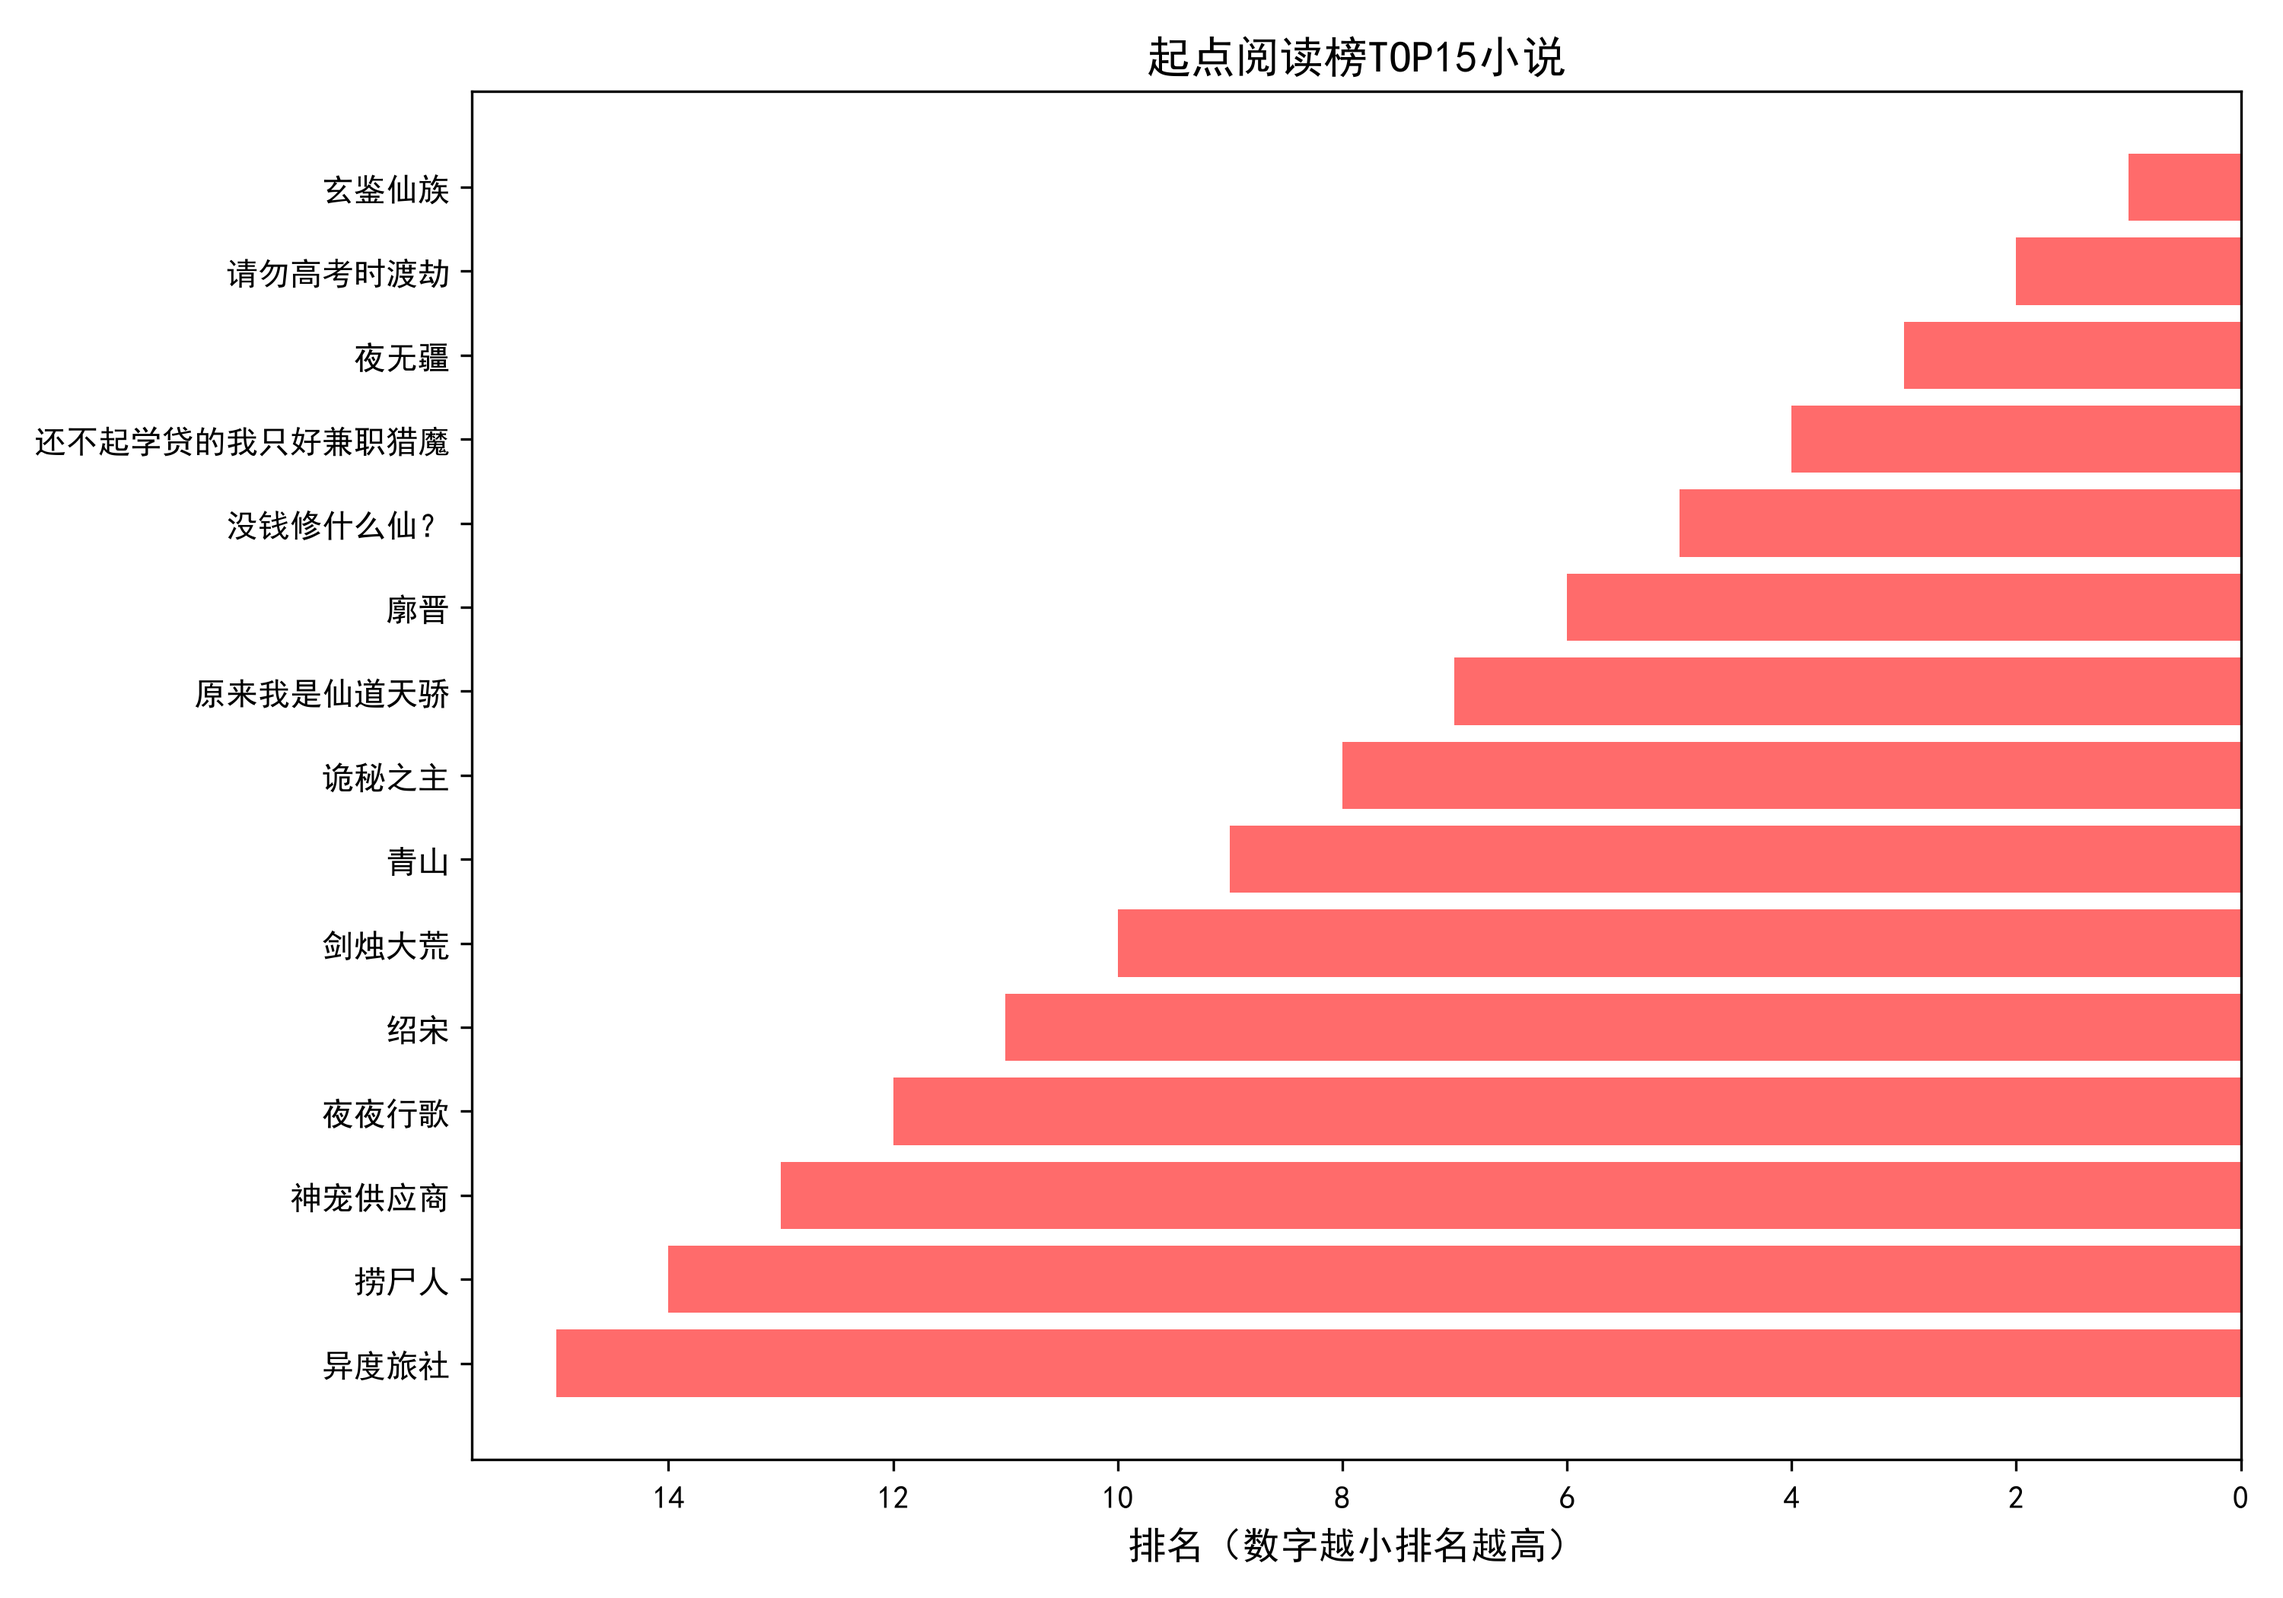
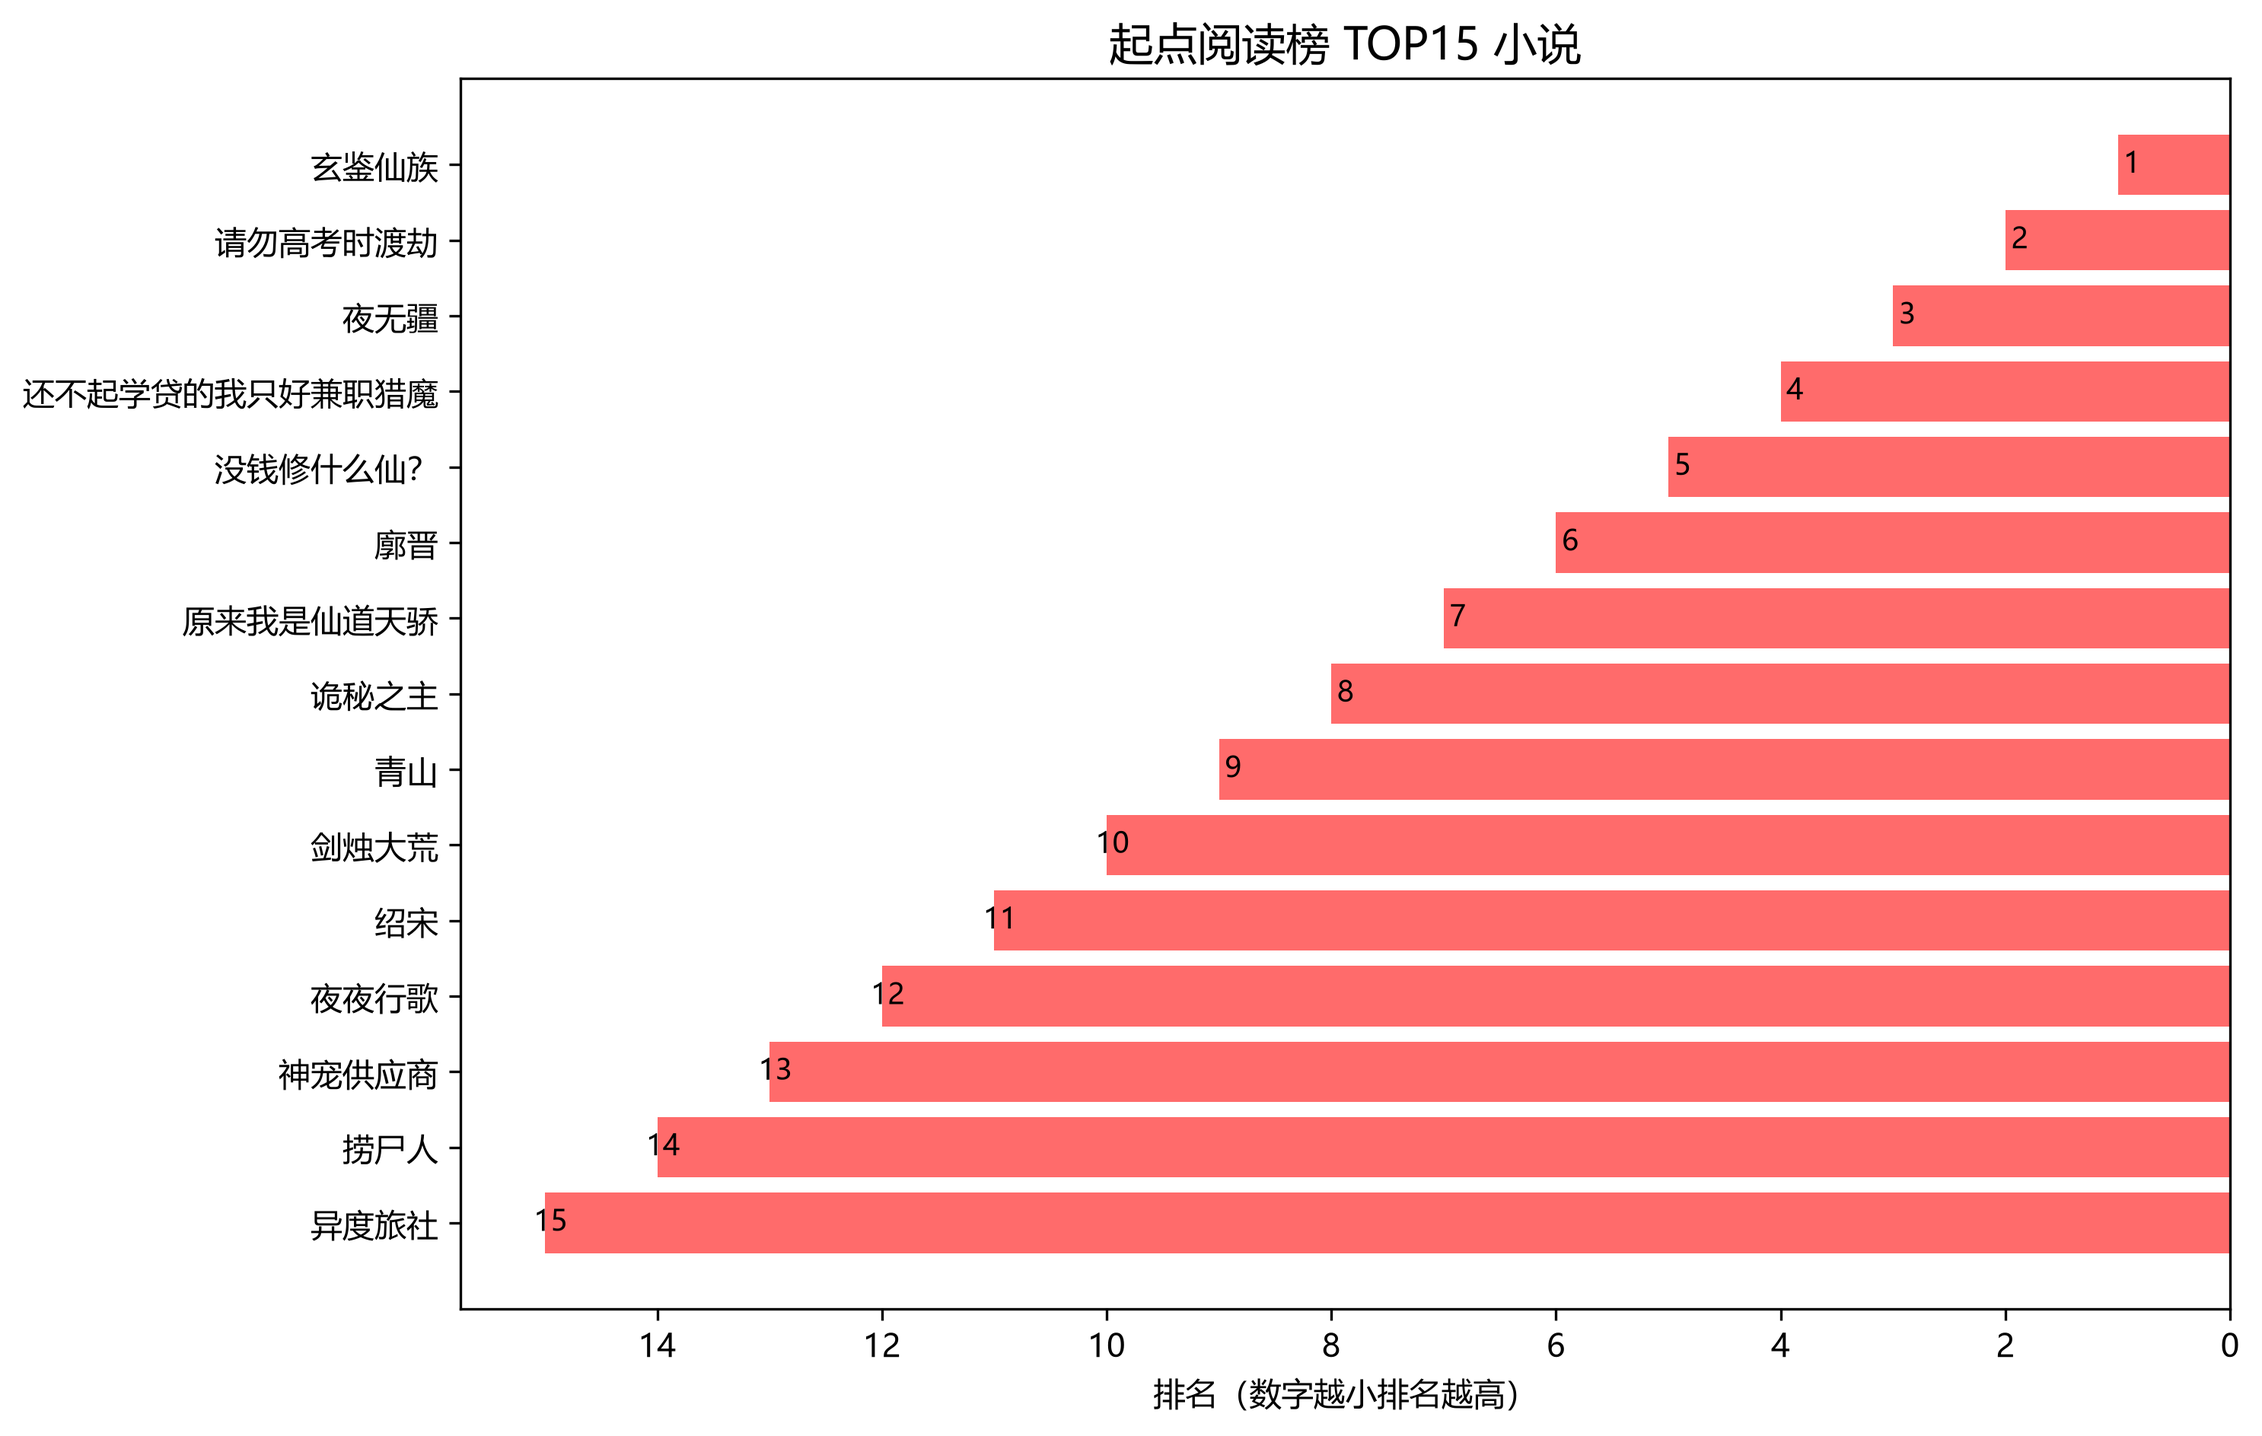
feat(viz): 重构可视化脚本，适配多平台中文字体并新增分类平均字数图

diff --git a/qnv-python/data_visualization.py b/qnv-python/data_visualization.py
@@ -1,69 +1,111 @@
-import pandas as pd
+# -*- coding: utf-8 -*-
+"""榜单数据可视化脚本
+
+基于清洗后的数据集生成 5 张统计图表（默认输出到当前目录）：
+    01_分类数量分布.png   各分类上榜小说数量柱状图
+    02_TOP15热度排名.png  榜单前 15 名条形图（排名越小越靠前）
+    03_字数分布.png       上榜小说字数（万字）分布直方图
+    04_分类占比饼图.png   各分类占比
+    05_分类平均字数.png   各分类上榜作品的平均字数（新增：反映分类的篇幅特征）
+
+用法：python data_visualization.py --input clean_data.csv --outdir . --topn 15
+"""
+import argparse
+import os
+
+import matplotlib
 import matplotlib.pyplot as plt
+import pandas as pd
+from matplotlib import font_manager
 
-# 解决matplotlib中文乱码
-plt.rcParams["font.sans-serif"] = ["SimHei"]
-plt.rcParams["axes.unicode_minus"] = False
+# 中文字体候选：Windows / macOS / Linux 各取一个，避免换机器就出现方块
+CANDIDATES = ["Microsoft YaHei", "SimHei", "PingFang SC", "Noto Sans CJK SC", "WenQuanYi Micro Hei"]
 
-# 1. 读取数据 - 修正为阅读榜的文件名
-df = pd.read_csv("qidian_readindex_books.csv", encoding="utf-8-sig")
 
-# 2. 数据清洗
-# 清洗字数字段：去掉"万字"，转换为数值
-df["字数(万)"] = df["字数"].str.replace("万字", "").astype(float)
+def setup_font():
+    """从系统已安装字体里挑选第一个可用的中文字体。"""
+    installed = {f.name for f in font_manager.fontManager.ttflist}
+    for name in CANDIDATES:
+        if name in installed:
+            matplotlib.rcParams["font.sans-serif"] = [name]
+            print(f"使用中文字体：{name}")
+            break
+    else:
+        print("警告：未找到中文字体，图表中的中文可能显示为方块")
+    matplotlib.rcParams["axes.unicode_minus"] = False
 
-# 打印数据概览
-print("数据基本信息：")
-print(df.info())
-print("\n数据前5行预览：")
-print(df.head())
 
-# 3. 图表1：小说分类数量分布柱状图
-plt.figure(figsize=(10, 6))
-category_count = df["分类"].value_counts().sort_values(ascending=False)
-plt.bar(category_count.index, category_count.values, color="#4A90E2")
-plt.title("起点阅读榜小说分类数量分布", fontsize=14)
-plt.xlabel("小说分类", fontsize=12)
-plt.ylabel("数量（本）", fontsize=12)
-plt.xticks(rotation=45)
-plt.tight_layout()
-plt.savefig("01_分类数量分布.png", dpi=300)
-plt.show()
+def save(fig, outdir, name):
+    path = os.path.join(outdir, name)
+    fig.savefig(path, dpi=300, bbox_inches="tight")
+    plt.close(fig)
+    print(f"已保存 {path}")
 
-# 4. 图表2：TOP15小说排名条形图
-plt.figure(figsize=(10, 7))
-top15 = df.head(15).sort_values("排名", ascending=False)
-plt.barh(top15["小说名称"], top15["排名"], color="#FF6B6B")
-plt.title("起点阅读榜TOP15小说", fontsize=14)
-plt.xlabel("排名（数字越小排名越高）", fontsize=12)
-plt.gca().invert_xaxis()
-plt.tight_layout()
-plt.savefig("02_TOP15热度排名.png", dpi=300)
-plt.show()
 
-# 5. 图表3：小说字数分布直方图
-plt.figure(figsize=(10, 6))
-plt.hist(df["字数(万)"], bins=10, color="#50C878", edgecolor="black", alpha=0.7)
-plt.title("起点阅读榜小说字数分布", fontsize=14)
-plt.xlabel("字数（万字）", fontsize=12)
-plt.ylabel("小说数量（本）", fontsize=12)
-plt.grid(axis="y", linestyle="--", alpha=0.5)
-plt.tight_layout()
-plt.savefig("03_字数分布.png", dpi=300)
-plt.show()
+def main():
+    parser = argparse.ArgumentParser(description="起点榜单一键出图")
+    parser.add_argument("--input", default="clean_data.csv")
+    parser.add_argument("--outdir", default=".")
+    parser.add_argument("--topn", type=int, default=15)
+    args = parser.parse_args()
 
-# 6. 图表4：小说分类占比饼图
-plt.figure(figsize=(9, 9))
-plt.pie(
-    category_count.values,
-    labels=category_count.index,
-    autopct="%1.1f%%",
-    startangle=90,
-    colors=plt.cm.Set3.colors
-)
-plt.title("起点阅读榜小说分类占比", fontsize=14)
-plt.tight_layout()
-plt.savefig("04_分类占比饼图.png", dpi=300)
-plt.show()
+    setup_font()
+    os.makedirs(args.outdir, exist_ok=True)
+    df = pd.read_csv(args.input, encoding="utf-8-sig")
 
-print("\n所有图表已生成并保存！")
+    cat_count = df["分类"].value_counts()
+    words = df["字数(万)"].dropna()
+
+    # 图 1：分类数量分布
+    fig, ax = plt.subplots(figsize=(10, 6))
+    ax.bar(cat_count.index, cat_count.values, color="#4A90E2")
+    ax.set_title(f"起点阅读榜小说分类数量分布（共 {len(df)} 本）", fontsize=14)
+    ax.set_xlabel("小说分类")
+    ax.set_ylabel("数量（本）")
+    ax.tick_params(axis="x", rotation=45)
+    for x, y in zip(cat_count.index, cat_count.values):
+        ax.text(x, y + 0.2, str(y), ha="center", fontsize=10)
+    save(fig, args.outdir, "01_分类数量分布.png")
+
+    # 图 2：TOP N 排名
+    top = df.nsmallest(args.topn, "排名").sort_values("排名", ascending=False)
+    fig, ax = plt.subplots(figsize=(10, 7))
+    ax.barh(top["小说名称"], top["排名"], color="#FF6B6B")
+    ax.set_title(f"起点阅读榜 TOP{args.topn} 小说", fontsize=14)
+    ax.set_xlabel("排名（数字越小排名越高）")
+    ax.invert_xaxis()
+    for y, x in zip(top["小说名称"], top["排名"]):
+        ax.text(x - 0.2, y, str(x), va="center", ha="right", fontsize=9)
+    save(fig, args.outdir, "02_TOP15热度排名.png")
+
+    # 图 3：字数分布
+    fig, ax = plt.subplots(figsize=(10, 6))
+    ax.hist(words, bins=10, color="#50C878", edgecolor="black", alpha=0.75)
+    ax.set_title("起点阅读榜小说字数分布", fontsize=14)
+    ax.set_xlabel("字数（万字）")
+    ax.set_ylabel("小说数量（本）")
+    ax.grid(axis="y", linestyle="--", alpha=0.5)
+    save(fig, args.outdir, "03_字数分布.png")
+
+    # 图 4：分类占比
+    fig, ax = plt.subplots(figsize=(9, 9))
+    ax.pie(cat_count.values, labels=cat_count.index, autopct="%1.1f%%",
+           startangle=90, colors=plt.cm.Set3.colors)
+    ax.set_title("起点阅读榜小说分类占比", fontsize=14)
+    save(fig, args.outdir, "04_分类占比饼图.png")
+
+    # 图 5：各分类平均字数（新增维度：篇幅特征）
+    avg = df.groupby("分类")["字数(万)"].mean().sort_values(ascending=False)
+    fig, ax = plt.subplots(figsize=(10, 6))
+    ax.bar(avg.index, avg.values, color="#7B68EE")
+    ax.set_title("各分类上榜作品平均字数", fontsize=14)
+    ax.set_xlabel("小说分类")
+    ax.set_ylabel("平均字数（万字）")
+    ax.tick_params(axis="x", rotation=45)
+    for x, y in zip(avg.index, avg.values):
+        ax.text(x, y + 1, f"{y:.0f}", ha="center", fontsize=9)
+    save(fig, args.outdir, "05_分类平均字数.png")
+
+
+if __name__ == "__main__":
+    main()
